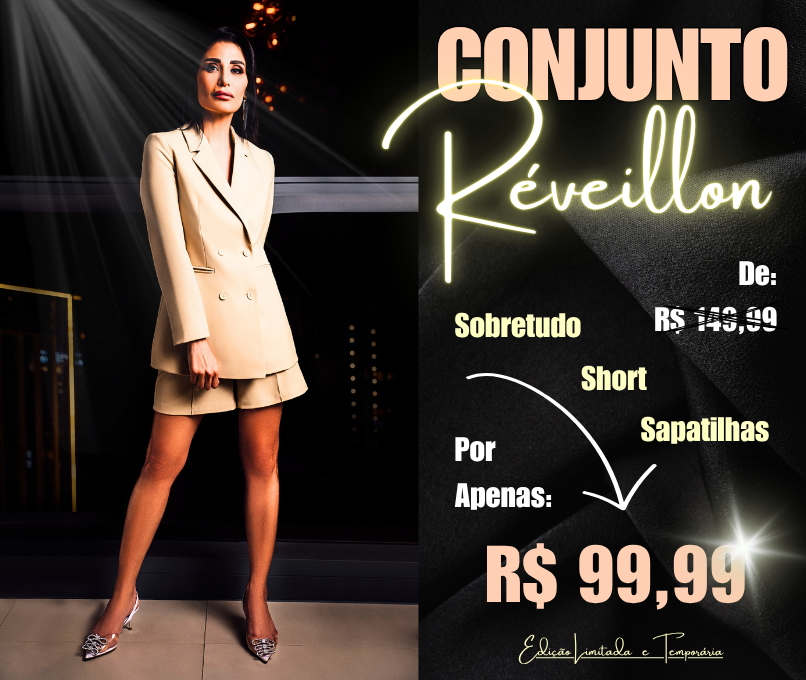
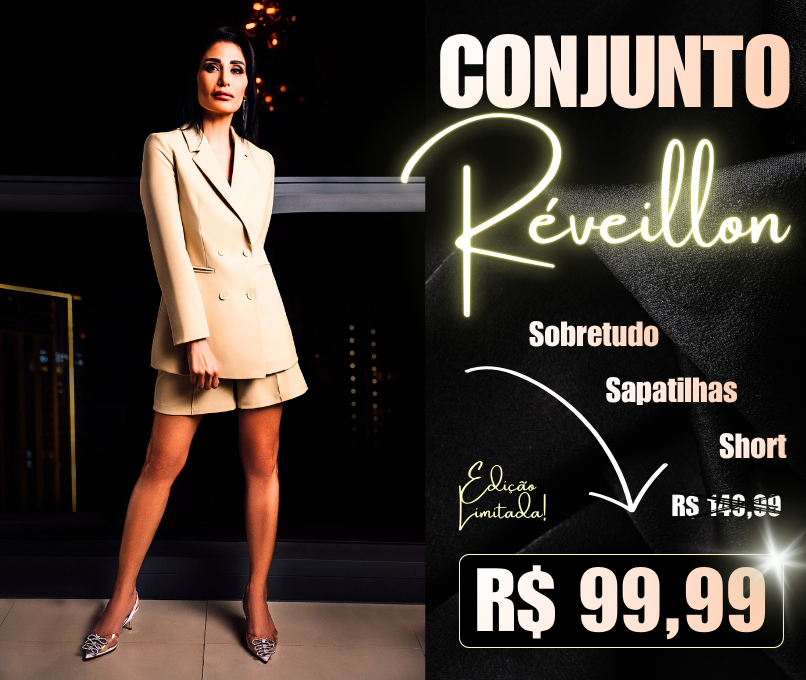
Ok ta indo

diff --git a/src/app/vmasculino/vmasculino.ts b/src/app/vmasculino/vmasculino.ts
@@ -14,30 +14,99 @@ elementos = [
 {
   nome: 'Camisa Polo Preta',
   imagem: 'assets/images/vmasculino/camisa-polo-preta.png',
-  $anterior: 'R$ 00,00',
+  $posterior: 'R$ 00,00'
+},
+
+{
+  nome: 'Calca Jeans Cargo',
+  imagem: 'assets/images/vmasculino/calca-jeans-cargo.png',
+  $posterior: 'R$ 00,00'
+},
+
+{
+  nome: 'Bota Social Marrom',
+  imagem: 'assets/images/vmasculino/bota-social-marrom.png',
+  $posterior: 'R$ 00,00'
+},
+
+{
+  nome: 'Relógio Prata Escuro',
+  imagem: 'assets/images/vmasculino/relogio-prata-escuro.png',
+  $posterior: 'R$ 00,00'
+},
+
+{
+  nome: 'Oculos Dourado Azul',
+  imagem: 'assets/images/vmasculino/oculos-dourado-azul.png',
+  $posterior: 'R$ 00,00'
+},
+
+{
+  nome: 'Sapato Social Preto',
+  imagem: 'assets/images/vmasculino/sapato-social-preto.png',
+  $posterior: 'R$ 00,00'
+},
+
+{
+  nome: 'Calça Social Preta',
+  imagem: 'assets/images/vmasculino/calca-social-preta.png',
   $posterior: 'R$ 00,00'
 },
 
 {
   nome: 'Paletó Cinza',
   imagem: 'assets/images/vmasculino/paleto-cinza.png',
-  $anterior: 'R$ 00,00',
   $posterior: 'R$ 00,00'
 },
 
 {
-  nome: 'Camisa Polo Branca',
-  imagem: 'assets/images/vmasculino/camisa-polo-branca.png',
-  $anterior: 'R$ 00,00',
+  nome: 'x',
+  imagem: 'assets/images/vmasculino/x.png',
   $posterior: 'R$ 00,00'
 },
 
 {
-  nome: 'Camisa Social Verde',
-  imagem: 'assets/images/vmasculino/camisa-social-verde.png',
-  $anterior: 'R$ 00,00',
+  nome: 'x',
+  imagem: 'assets/images/vmasculino/x.png',
   $posterior: 'R$ 00,00'
-}
+},
+
+{
+  nome: 'x',
+  imagem: 'assets/images/vmasculino/x.png',
+  $posterior: 'R$ 00,00'
+},
+
+{
+  nome: 'x',
+  imagem: 'assets/images/vmasculino/x.png',
+  $posterior: 'R$ 00,00'
+},
+
+{
+  nome: 'x',
+  imagem: 'assets/images/vmasculino/x.png',
+  $posterior: 'R$ 00,00'
+},
+
+{
+  nome: 'x',
+  imagem: 'assets/images/vmasculino/x.png',
+  $posterior: 'R$ 00,00'
+},
+
+{
+  nome: 'x',
+  imagem: 'assets/images/vmasculino/x.png',
+  $posterior: 'R$ 00,00'
+},
+
+{
+  nome: 'x',
+  imagem: 'assets/images/vmasculino/x.png',
+  $posterior: 'R$ 00,00'
+},
+
 
 ]
 

diff --git a/src/app/vmasculino/vmasculino.css b/src/app/vmasculino/vmasculino.css
@@ -1,6 +1,6 @@
 .container{
     width: 1920px;
-    height: 600px;
+    height: 2000px;
     display: flex;
     flex-direction: column;
     align-items: center;
@@ -13,14 +13,15 @@ font-weight: bold;
     margin-top: 50px;
 }
 
-.camisas{
+.opcoes-principais{
     display: flex;
     flex-direction: row;
-    width: 1920px;
+    width: 1200px;
     justify-content: center;
     align-items: center;
-    gap: 50px;
+    gap: 75px;
     margin: 50px;
+    flex-wrap: wrap;
 }
 
 .peça{
@@ -28,4 +29,73 @@ font-weight: bold;
     justify-content: center;
     align-items: center;
     text-align: center;
+    flex-direction: column;
+    width: 225px;
+    height: 400px;
+}
+
+.precos{
+font-size: 17px;
+}
+
+.nome{
+    font-weight: bolder;
+    font-size: 17.5px;
+}
+
+.tamanhos{
+    display: flex;
+    gap: 10px;
+    margin: 5px;
+}
+
+.btn-pp{
+    font-size: 12.5px;
+border-radius: 5px;
+border: 1px solid black;
+background-color: white;
+}
+
+.btn-p{
+    font-size: 12.5px;
+border-radius: 5px;
+border: 1px solid black;
+background-color: white;
+}
+
+.btn-pp{
+    font-size: 12.5px;
+border-radius: 5px;
+border: 1px solid black;
+background-color: white;
+}
+
+.btn-m{
+    font-size: 12.5px;
+border-radius: 5px;
+border: 1px solid black;
+background-color: white;
+}
+
+.btn-g{
+    font-size: 12.5px;
+border-radius: 5px;
+border: 1px solid black;
+background-color: white;
+}
+
+.btn-gg{
+    font-size: 12.5px;
+border-radius: 5px;
+border: 1px solid black;
+background-color: white;
+}
+
+.adicionar{
+    border-radius: 5px;
+border: 1px solid black;
+background-color: white;
+margin: 15px;
+width: 180px;
+font-size: 12.5px;
 }

diff --git a/src/app/vmasculino/vmasculino.html b/src/app/vmasculino/vmasculino.html
@@ -2,33 +2,28 @@
 
 <h1 class="titulo">Vestiário Masculino</h1>
 
-<div class="camisas">
-
-<i class="btn-anterior bi-arrow-left-square-fill"></i>
+<div class="opcoes-principais">
 
     @for (item of elementos; track item.imagem){
 
-        <div class="Peça">
+        <div class="peça">
             <p class="nome">{{item.nome}}</p>
             <img [src]="item.imagem" [alt]="item.imagem" class="img">
             <div class="precos">
-                <p class="$anterior">{{item.$anterior}}</p>
                 <p class="$posterior">{{item.$posterior}}</p>
             </div>
             <div class="tamanhos">
-                <button>PP</button>
-                <button>P</button>
-                <button>M</button>
-                <button>G</button>
-                <button>GG</button>
+                <button class="btn-pp">PP</button>
+                <button class="btn-p">P</button>
+                <button class="btn-m">M</button>
+                <button class="btn-g">G</button>
+                <button class="btn-gg">GG</button>
             </div>
             <button class="adicionar">Adicionar</button>
         </div>
 
 
     }
-
-    <i class="btn-proximo bi-arrow-right-square-fill"></i>
 
 </div>
 

diff --git a/src/app/banner/banner.css b/src/app/banner/banner.css
@@ -26,7 +26,7 @@
 }
 
 .btn-anterior:hover{
-    transform: scale(1.1);
+    transform: scale(1.25);
     transition: 1s ease;
 }
 
@@ -35,7 +35,7 @@
 }
 
 .btn-proximo:hover{
-    transform: scale(1.1);
+    transform: scale(1.25);
     transition: 1s ease;
 }
 
@@ -43,4 +43,8 @@
     transform: scale(1.1);
     transition: 1s ease;
 
+}
+
+.img-destaque{
+    border-radius: 7.5px;
 }
